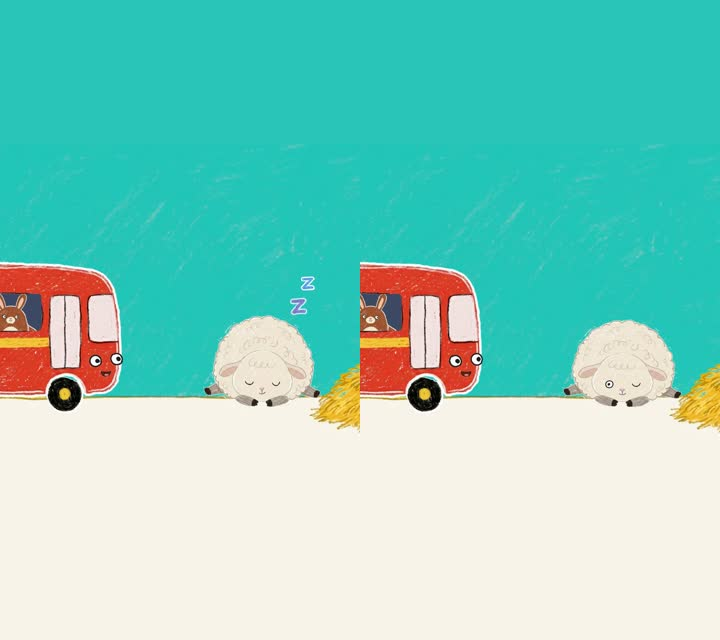
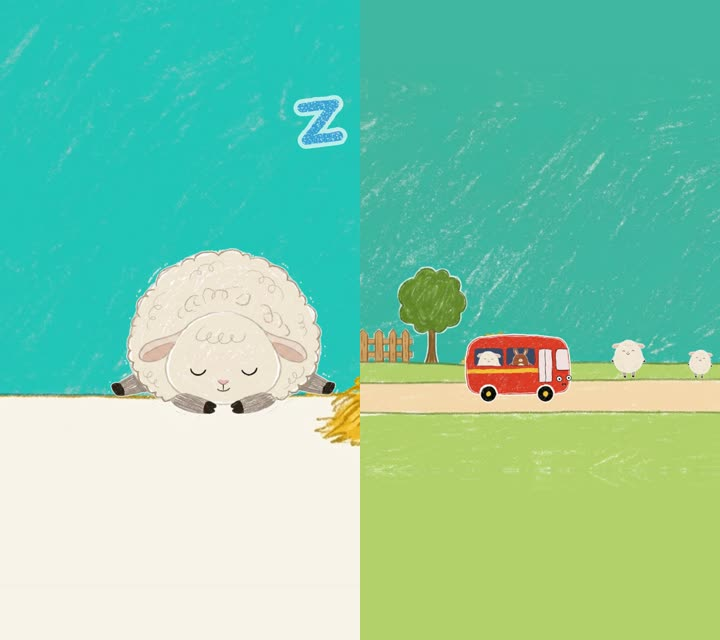
Shorts stående: helbilden 1,34× närmare med bussens front i bild, figurerna strax ovanför mitten, plattans kant speglas och tonas utan skarv (mönster i defs, så att scenernas plate.querySelector('image') hittar plattan), kompisen vid stoppet ryms; 004 pekar på bussen i arkiv/; regeln i shorts-plan.m

diff --git a/avsnitt/004-bussen-badar/scener/kit.js b/avsnitt/004-bussen-badar/scener/kit.js
@@ -22,15 +22,15 @@ const FIGURER = {
     fonster: [[149, 379, 98, 109], [283, 378, 99, 108], [414, 375, 99, 109], [546, 374, 99, 109]], dorr: [681, 368, 112, 273],
     hjulR: 63 },
   // avsnitt 003: bussen med två stora fönster (0 bakre, 1 vid dörren), samma mått som bussen-bettan; framifrån och bakifrån
-  'bussen-tva-fonster': { namn: 'bussen-tva-fonster', bbox: [67, 239, 964, 812], h: 464, ogon: [[851, 614], [931, 607]], ogonSkala: 0.8, mun: [891, 661], munForm: 'D', munSkala: 0.75,
+  'bussen-tva-fonster': { namn: 'bussen-tva-fonster', mapp: '../arkiv/karaktarer/bussen-tva-fonster', bbox: [67, 239, 964, 812], h: 464, ogon: [[851, 614], [931, 607]], ogonSkala: 0.8, mun: [891, 661], munForm: 'D', munSkala: 0.75,
     fonster: [[148, 364, 236, 141], [414, 361, 234, 139]], dorr: [681, 368, 112, 273], hjulR: 63 },
-  'bussen-fram':     { mapp: 'bussen-tva-fonster', kropp: 'cut/bussen-tva-fonster-fram-faceless.png', bbox: [180, 200, 844, 853], h: 529,
+  'bussen-fram':     { mapp: '../arkiv/karaktarer/bussen-tva-fonster', kropp: 'cut/bussen-tva-fonster-fram-faceless.png', bbox: [180, 200, 844, 853], h: 529,
     ogon: [[421, 636], [604, 636]], ogonSkala: 1.7, mun: [514, 688], munForm: 'D', munSkala: 1.5 },   // samma skala som från sidan
   // tre kvart: bron mellan sidvyn och fram/bak. Ritad med fronten åt vänster; flip: true när bussen kör åt höger.
-  'bussen-tre-kvart': { mapp: 'bussen-tva-fonster', kropp: 'cut/bussen-tva-fonster-tre-kvart-fram-faceless.png', bbox: [76, 197, 951, 855], h: 533,
+  'bussen-tre-kvart': { mapp: '../arkiv/karaktarer/bussen-tva-fonster', kropp: 'cut/bussen-tva-fonster-tre-kvart-fram-faceless.png', bbox: [76, 197, 951, 855], h: 533,
     ogon: [[230, 632], [396, 643]], ogonSkala: 1.45, mun: [312, 685], munForm: 'D', munSkala: 1.5 },
-  'bussen-tre-kvart-bak': { mapp: 'bussen-tva-fonster', kropp: 'cut/bussen-tva-fonster-tre-kvart-bak.png', bbox: [67, 224, 950, 839], h: 498, ogon: [] },
-  'bussen-bak':      { mapp: 'bussen-tva-fonster', kropp: 'cut/bussen-tva-fonster-bak.png', bbox: [162, 200, 862, 835], h: 514, ogon: [] },
+  'bussen-tre-kvart-bak': { mapp: '../arkiv/karaktarer/bussen-tva-fonster', kropp: 'cut/bussen-tva-fonster-tre-kvart-bak.png', bbox: [67, 224, 950, 839], h: 498, ogon: [] },
+  'bussen-bak':      { mapp: '../arkiv/karaktarer/bussen-tva-fonster', kropp: 'cut/bussen-tva-fonster-bak.png', bbox: [162, 200, 862, 835], h: 514, ogon: [] },
   'fjarilen-fia':    { namn: 'fia', bbox: [117, 189, 910, 805], ogon: [[428, 407], [595, 405]], ogonSkala: 2.1, mun: [512, 478], munSkala: 1.2, munFarg: '#f6e7f0' },   // ögon uppmätta i fia.png
   'flygplanet-pella':{ namn: 'flygplanet-pella', bbox: [30, 273, 943, 774], h: 599, ogon: [[747, 524], [839, 520]], mun: [797, 577],
     framfor: ['del-2', 'del-3', 'del-4'] },                                     // del-1 vimpel, del-4 propeller
@@ -66,7 +66,7 @@ const bild = (href, parent, attrs = {}) => { bilder.push(href); return el('image
 // lager.plate (bakgrund), lager.figurer (kokar), lager.overst (skärmen). plate och figurer följer kameran.
 // Stående (Shorts): index.html?staende ger en duk på 1080×1920. Plattan förlängs uppåt och nedåt med sin översta och nedersta färg,
 // och kameran visar BRED px av världen i bredd (ingen clamp). Scenen väljer själv cx i helbild (bussen är bredare än en 9:16-bild).
-const STAENDE = new URLSearchParams(location.search).has('staende'), BRED = 1100;
+const STAENDE = new URLSearchParams(location.search).has('staende'), BRED = 820, Y0 = 860, HEL_Y = 700;   // Shorts 2026-11-09: helbilden 1,34× närmare (var 1100; bussen är ca 730 px bred och ska rymmas), närbilderna som förut; figurerna strax ovanför mitten, ovanför YouTubes knappar
 const vantar = [];   // extra löften som window.ready väntar på
 let svg, defs, lager = {};
 function duk(plateSlug, plateSrc = `${ROT}assets/bakgrunder/${plateSlug}/${plateSlug}.png`) {   // plateSrc: en egen variant av plattan
@@ -92,6 +92,7 @@ function duk(plateSlug, plateSrc = `${ROT}assets/bakgrunder/${plateSlug}/${plate
 
 // Stående: förlänger en 16:9-bild (xMidYMid slice) uppåt och nedåt med färgen i dess översta och nedersta synliga rad.
 // Ger en <g> som läggs först i forelder (bakom bilden); göm den tillsammans med bilden.
+kanter.n = 0;
 function kanter(src, forelder) {
   const g = el('g', {}), ovan = el('rect', { x: -3000, y: -4000, width: 7920, height: 4010 }, g), nedan = el('rect', { x: -3000, y: 1070, width: 7920, height: 4000 }, g);
   forelder.insertBefore(g, forelder.firstChild);
@@ -99,17 +100,28 @@ function kanter(src, forelder) {
     const c = document.createElement('canvas'); c.width = i.width; c.height = i.height;
     const x = c.getContext('2d'); x.drawImage(i, 0, 0);
     const syns = Math.min(i.height, i.width * 1080 / 1920), y0 = (i.height - syns) / 2;   // raderna som syns efter slice
-    const farg = y => { const d = x.getImageData(0, Math.round(y), i.width, 1).data, s = [0, 0, 0];
-      for (let k = 0; k < d.length; k += 4) for (let j = 0; j < 3; j++) s[j] += d[k + j];
-      return `rgb(${s.map(v => Math.round(v / (d.length / 4))).join(',')})`; };
-    ovan.setAttribute('fill', farg(y0 + 4)); nedan.setAttribute('fill', farg(y0 + syns - 4)); r(); }; i.onerror = r; i.src = src; }));
+    // medianen av 24 rader vid kanten: streck och kritkorn drar inte färgen mörkare eller ljusare, så den möter tonade kanten utan skarv
+    const farg = y => { const d = x.getImageData(0, Math.round(y), i.width, 24).data, kan = [[], [], []];
+      for (let k = 0; k < d.length; k += 4) for (let j = 0; j < 3; j++) kan[j].push(d[k + j]);
+      return `rgb(${kan.map(v => v.sort((a, b) => a - b)[v.length >> 1]).join(',')})`; };
+    ovan.setAttribute('fill', farg(y0 + 2)); nedan.setAttribute('fill', farg(y0 + syns - 26)); r(); }; i.onerror = r; i.src = src; }));
+  // Ingen skarv: plattans kant speglas utåt och tonas bort mot den platta färgen på 70 px (kort, så att vägstreck och staket nära kanten inte speglas), så kritkornet fortsätter förbi kanten.
+  if (!document.getElementById('tona-upp')) defs.insertAdjacentHTML('beforeend', [['tona-upp', 0, 70], ['tona-ner', 1080, 1010]].map(([id, a, b]) =>
+    `<linearGradient id="${id}-g" gradientUnits="userSpaceOnUse" x1="0" y1="${a}" x2="0" y2="${b}"><stop offset="0" stop-color="#fff"/><stop offset="1" stop-color="#000"/></linearGradient>
+     <mask id="${id}" maskUnits="userSpaceOnUse" x="-3000" y="-4000" width="7920" height="9000"><rect x="-3000" y="-4000" width="7920" height="9000" fill="url(#${id}-g)"/></mask>`).join(''));
+  // Speglingen är ett mönster i defs, inte en <image> i plattan, så att scenernas plate.querySelector('image') fortfarande hittar plattan.
+  const mid = `spegel-${++kanter.n}`, m = el('pattern', { id: mid, patternUnits: 'userSpaceOnUse', width: 1920, height: 1080 }, defs);
+  bild(src, m, { width: 1920, height: 1080, preserveAspectRatio: 'xMidYMid slice' });
+  el('rect', { width: 1920, height: 1080, fill: `url(#${mid})`, transform: 'scale(1 -1)', mask: 'url(#tona-upp)' }, g);
+  el('rect', { width: 1920, height: 1080, fill: `url(#${mid})`, transform: 'translate(0 2160) scale(1 -1)', mask: 'url(#tona-ner)' }, g);
   return g;
 }
 
 // Kameran: punkten (cx, cy) hamnar mitt i bild, zoom ≥ 1. Hålls inom plattan.
 function kamera(cx = 960, cy = 540, zoom = 1) {
   if (STAENDE) {
-    const tr = `translate(540 960) scale(${zoom * 1080 / BRED}) translate(${-cx} ${-cy})`;
+    if (zoom === 1) cy = HEL_Y;   // helbilden siktar på marken där figurerna står
+    const tr = `translate(540 ${Y0}) scale(${zoom === 1 ? 1080 / BRED : zoom * 1080 / 1100}) translate(${-cx} ${-cy})`;
     return svg.querySelectorAll('.kamera').forEach(g => g.setAttribute('transform', tr));
   }
   const hw = 960 / zoom, hh = 540 / zoom;

diff --git a/avsnitt/003-bussen-halsar-pa/scener/kit.js b/avsnitt/003-bussen-halsar-pa/scener/kit.js
@@ -66,7 +66,7 @@ const bild = (href, parent, attrs = {}) => { bilder.push(href); return el('image
 // lager.plate (bakgrund), lager.figurer (kokar), lager.overst (skärmen). plate och figurer följer kameran.
 // Stående (Shorts): index.html?staende ger en duk på 1080×1920. Plattan förlängs uppåt och nedåt med sin översta och nedersta färg,
 // och kameran visar BRED px av världen i bredd (ingen clamp). Scenen väljer själv cx i helbild.
-const STAENDE = new URLSearchParams(location.search).has('staende'), BRED = 1100;
+const STAENDE = new URLSearchParams(location.search).has('staende'), BRED = 820, Y0 = 860, HEL_Y = 700;   // Shorts 2026-11-09: helbilden 1,34× närmare (var 1100; bussen är ca 730 px bred och ska rymmas), närbilderna som förut; figurerna strax ovanför mitten, ovanför YouTubes knappar
 const vantar = [];   // extra löften som window.ready väntar på
 let svg, defs, lager = {};
 function duk(plateSlug) {
@@ -94,6 +94,7 @@ function duk(plateSlug) {
 
 // Stående: förlänger en 16:9-bild (xMidYMid slice) uppåt och nedåt med färgen i dess översta och nedersta synliga rad.
 // Ger en <g> som läggs först i forelder (bakom bilden); göm den tillsammans med bilden.
+kanter.n = 0;
 function kanter(src, forelder) {
   const g = el('g', {}), ovan = el('rect', { x: -3000, y: -4000, width: 7920, height: 4010 }, g), nedan = el('rect', { x: -3000, y: 1070, width: 7920, height: 4000 }, g);
   forelder.insertBefore(g, forelder.firstChild);
@@ -101,17 +102,28 @@ function kanter(src, forelder) {
     const c = document.createElement('canvas'); c.width = i.width; c.height = i.height;
     const x = c.getContext('2d'); x.drawImage(i, 0, 0);
     const syns = Math.min(i.height, i.width * 1080 / 1920), y0 = (i.height - syns) / 2;   // raderna som syns efter slice
-    const farg = y => { const d = x.getImageData(0, Math.round(y), i.width, 1).data, s = [0, 0, 0];
-      for (let k = 0; k < d.length; k += 4) for (let j = 0; j < 3; j++) s[j] += d[k + j];
-      return `rgb(${s.map(v => Math.round(v / (d.length / 4))).join(',')})`; };
-    ovan.setAttribute('fill', farg(y0 + 4)); nedan.setAttribute('fill', farg(y0 + syns - 4)); r(); }; i.onerror = r; i.src = src; }));
+    // medianen av 24 rader vid kanten: streck och kritkorn drar inte färgen mörkare eller ljusare, så den möter tonade kanten utan skarv
+    const farg = y => { const d = x.getImageData(0, Math.round(y), i.width, 24).data, kan = [[], [], []];
+      for (let k = 0; k < d.length; k += 4) for (let j = 0; j < 3; j++) kan[j].push(d[k + j]);
+      return `rgb(${kan.map(v => v.sort((a, b) => a - b)[v.length >> 1]).join(',')})`; };
+    ovan.setAttribute('fill', farg(y0 + 2)); nedan.setAttribute('fill', farg(y0 + syns - 26)); r(); }; i.onerror = r; i.src = src; }));
+  // Ingen skarv: plattans kant speglas utåt och tonas bort mot den platta färgen på 70 px (kort, så att vägstreck och staket nära kanten inte speglas), så kritkornet fortsätter förbi kanten.
+  if (!document.getElementById('tona-upp')) defs.insertAdjacentHTML('beforeend', [['tona-upp', 0, 70], ['tona-ner', 1080, 1010]].map(([id, a, b]) =>
+    `<linearGradient id="${id}-g" gradientUnits="userSpaceOnUse" x1="0" y1="${a}" x2="0" y2="${b}"><stop offset="0" stop-color="#fff"/><stop offset="1" stop-color="#000"/></linearGradient>
+     <mask id="${id}" maskUnits="userSpaceOnUse" x="-3000" y="-4000" width="7920" height="9000"><rect x="-3000" y="-4000" width="7920" height="9000" fill="url(#${id}-g)"/></mask>`).join(''));
+  // Speglingen är ett mönster i defs, inte en <image> i plattan, så att scenernas plate.querySelector('image') fortfarande hittar plattan.
+  const mid = `spegel-${++kanter.n}`, m = el('pattern', { id: mid, patternUnits: 'userSpaceOnUse', width: 1920, height: 1080 }, defs);
+  bild(src, m, { width: 1920, height: 1080, preserveAspectRatio: 'xMidYMid slice' });
+  el('rect', { width: 1920, height: 1080, fill: `url(#${mid})`, transform: 'scale(1 -1)', mask: 'url(#tona-upp)' }, g);
+  el('rect', { width: 1920, height: 1080, fill: `url(#${mid})`, transform: 'translate(0 2160) scale(1 -1)', mask: 'url(#tona-ner)' }, g);
   return g;
 }
 
 // Kameran: punkten (cx, cy) hamnar mitt i bild, zoom ≥ 1. Hålls inom plattan.
 function kamera(cx = 960, cy = 540, zoom = 1) {
   if (STAENDE) {
-    const tr = `translate(540 960) scale(${zoom * 1080 / BRED}) translate(${-cx} ${-cy})`;
+    if (zoom === 1) cy = HEL_Y;   // helbilden siktar på marken där figurerna står
+    const tr = `translate(540 ${Y0}) scale(${zoom === 1 ? 1080 / BRED : zoom * 1080 / 1100}) translate(${-cx} ${-cy})`;
     return svg.querySelectorAll('.kamera').forEach(g => g.setAttribute('transform', tr));
   }
   const hw = 960 / zoom, hh = 540 / zoom;

diff --git a/avsnitt/004-bussen-badar/scener/korscen-1/kor.js b/avsnitt/004-bussen-badar/scener/korscen-1/kor.js
@@ -241,13 +241,14 @@ function fjaril(fia, t, [t0, t1], y0 = 330) {
 
 // Stående (kit.STAENDE): kameran i helbild. Följer bussen i backen, står annars på bussen och glider till stoppet
 // (bussens nos, dörren och kompisen, x 1250) under fokus = [[från, till], …], 0,8 s glid in och ut.
-const STAENDE_STOPP = 1250;
+const STAENDE_STOPP = 1340;   // var 1250; närmare bild 2026-11-09, så att kompisen vid stoppet ryms
 function staende(kam, t, backe, fokus = []) {
   if (!kit.STAENDE || kam[2] !== 1) return kam;
   if (backe) return [Math.min(1270, Math.max(650, backe.x)), 540, 1];   // inom backarnas bredd
   // fokus: [[a, b, x = STAENDE_STOPP], …], kameran glider till x under [a, b]
-  let x = BUSS.x;
-  for (const [a, b, m = STAENDE_STOPP] of fokus) { const k = mjuk(del(a - 0.8, a, t)) * (1 - mjuk(del(b, b + 0.8, t))); if (k > 0) x = lerp(BUSS.x, m, k); }
+  const x0 = BUSS.x + 110;   // Shorts 2026-11-09: närmare bild, så kameran står på bussens front och ansikte med lite väg framför; bakdelen får gå ut ur bild
+  let x = x0;
+  for (const [a, b, m = STAENDE_STOPP] of fokus) { const k = mjuk(del(a - 0.8, a, t)) * (1 - mjuk(del(b, b + 0.8, t))); if (k > 0) x = lerp(x0, m, k); }
   return [x, 540, 1];
 }
 

diff --git a/produktion/youtube/shorts-plan.md b/produktion/youtube/shorts-plan.md
@@ -78,6 +78,18 @@ Testat 2026-11-04 (`produktion/youtube/shorts/test/`):
 1. **Rendera om stående** för 003 och 004. Beskärning av mitten fungerade inte: bussen är bredare än en 9:16-bild och grodan står i kanten. `node render.mjs <scen> --staende` ritar på 1080×1920. Plattan förlängs uppåt och nedåt med sin egen färg, kameran står på bussen och glider till kompisen vid stoppet (`kor.staende`).
 2. **Bild i ruta** för B som i Boll (AI-video, kan inte renderas om): hela 16:9-bilden i mitten, med plattans platta färger ovanför och under. Att sträcka ut bildens egen kant gav ränder i närbilderna.
 
+### Regeln för stående Shorts (Sanna 2026-11-09: "zoom in, hide the seams, blurred fill for B som i Boll")
+
+Gäller alla Shorts som klipps ur avsnitt, också 005, 013, 019 och framåt:
+
+1. **Nära.** Helbilden visar ca 820 px av världen i bredd (1,34× närmare än de första testen; bussen, ca 730 px, ryms). Är fordonet bredare än bilden står kameran på fronten och ansiktet med lite väg framför, och bakdelen får gå ut ur bild. Närbilderna är som i avsnittet.
+2. **Figurerna strax ovanför mitten**, med fötterna på ca 60–65 % av höjden. Nedersta femtedelen och högerkanten täcks av YouTubes titel och knappar: inget viktigt där.
+3. **Inga skarvar.** Plattans kant speglas utåt och tonas bort på 70 px mot en platt färg (medianen av kantraderna), så kritkornet fortsätter förbi kanten. Ingen hård linje, inga dubbla vägstreck.
+4. **Kan bilden inte renderas om** (AI-video): bilden i en ruta strax ovanför mitten, beskuren till ca 1,2:1 så att figurerna blir större, och bakom den samma klipp uppförstorat, kraftigt suddigt och lite mörkare. Aldrig platta färgband eller utsträckta kanter.
+5. **Kolla i telefonstorlek** innan uppladdning: en kontaktkarta var fjärde sekund, figurerna ska synas och ingen skarv får synas.
+
+Koden: `kit.kamera` och `kit.kanter` i 003:s och 004:s `scener/kit.js` (`BRED`, `Y0`, `HEL_Y`), och `kor.staende` i 004 (`STAENDE_STOPP`). Nya avsnitt med andra kit tar samma tal.
+
 ## Text till YouTube
 
 - **Titel:** `<Shortens namn> <emoji> | <avsnittets titel> | lilla kritan`, till exempel `Hur säger lammet? 🐑 | Bussen hälsar på | lilla kritan`.
